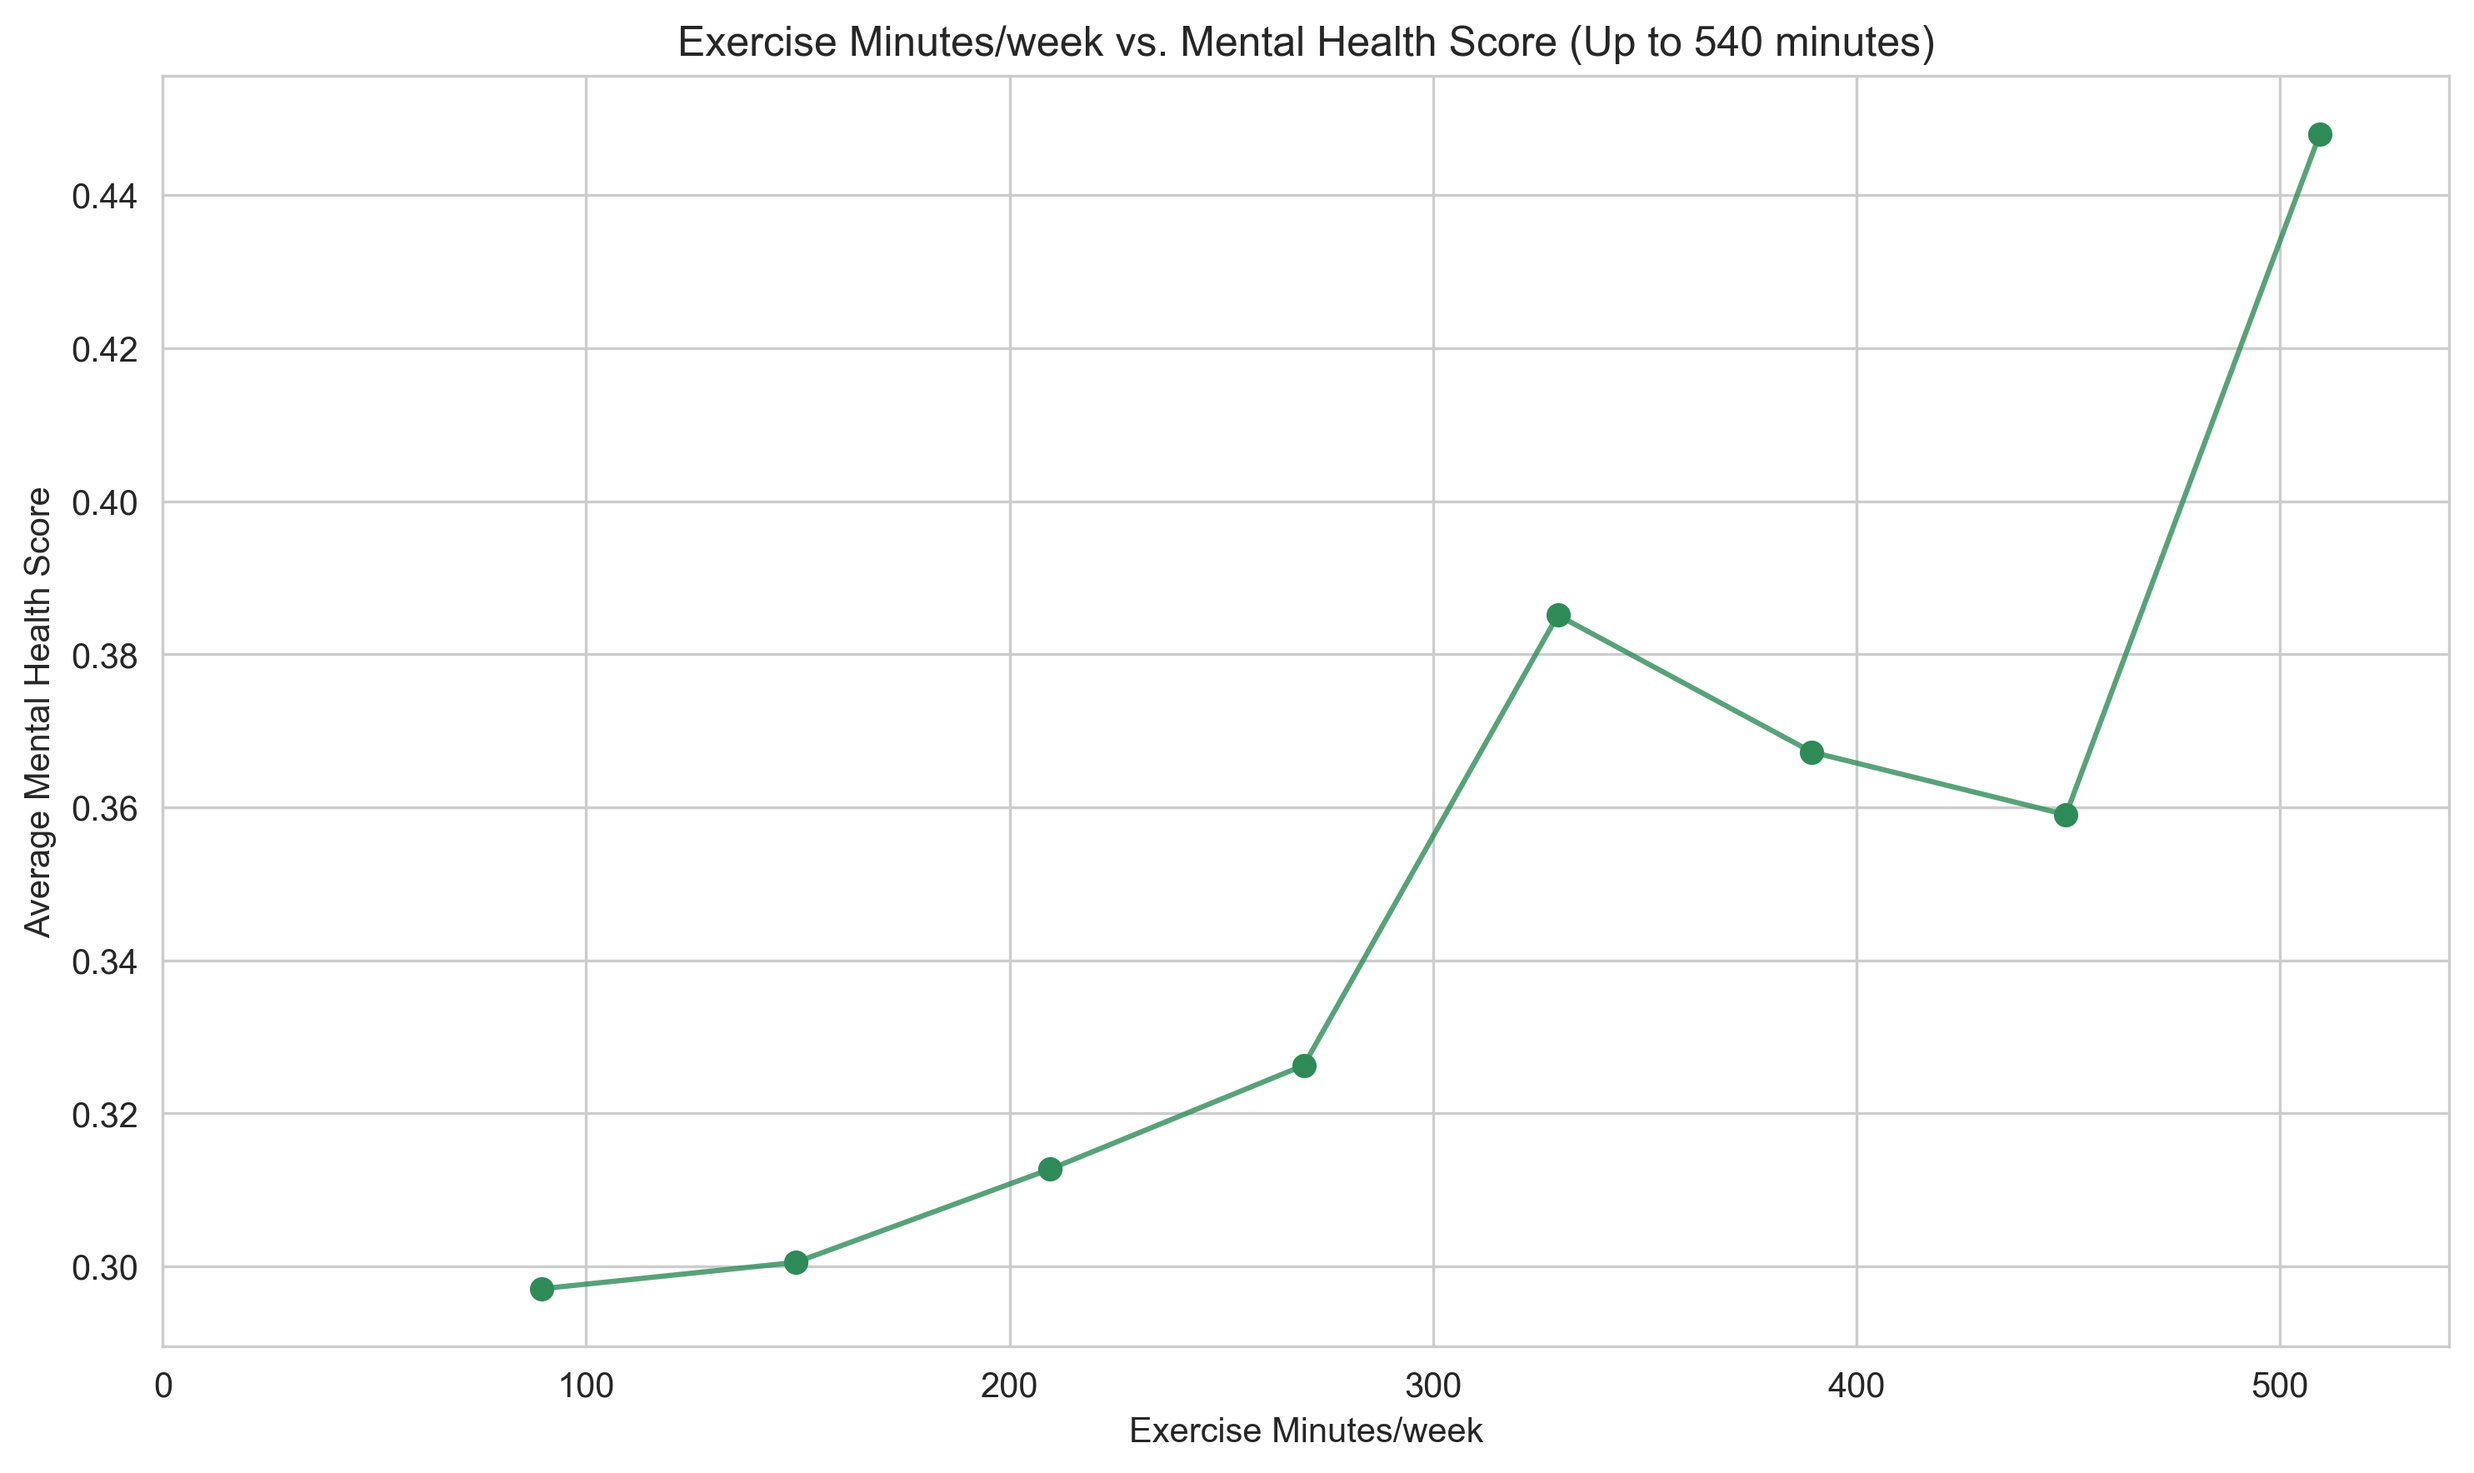
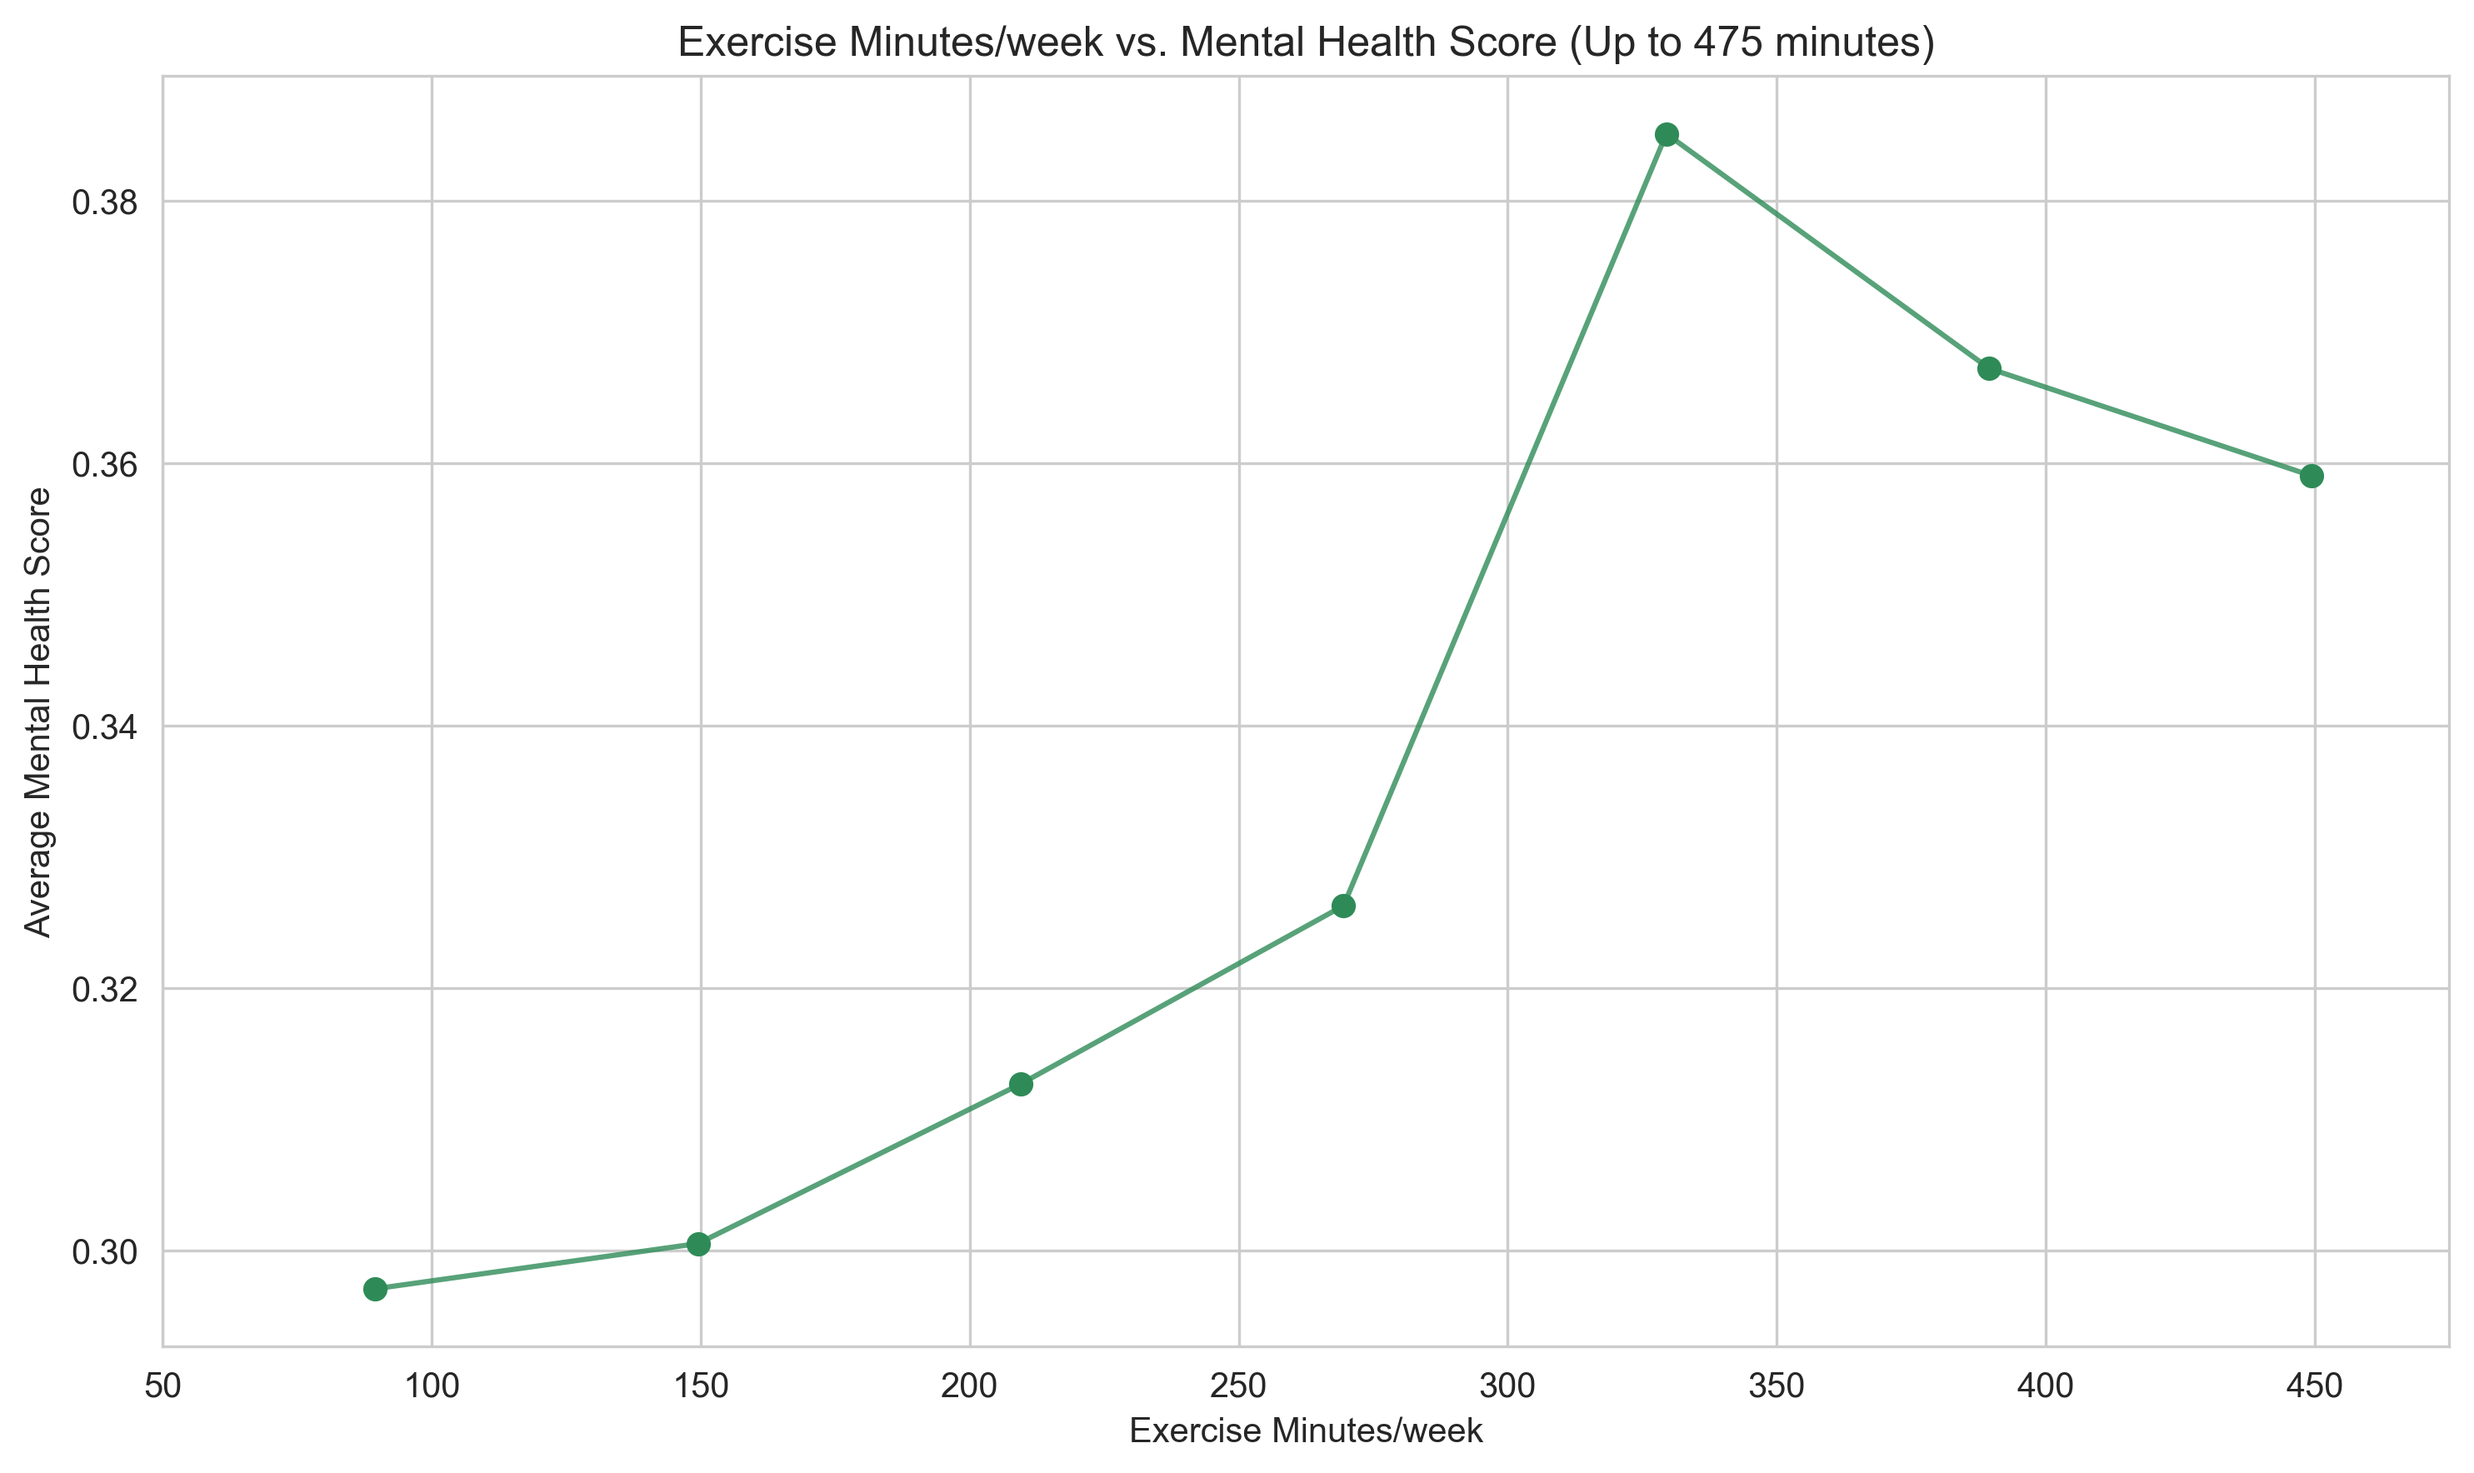
heterogenous effect

diff --git a/04_causal_model_fitting.py b/04_causal_model_fitting.py
@@ -189,10 +189,18 @@ class CausalEffectAnalyzer:
         categorical_vars = ['SEXVAR', 'MARITAL', 'EDUCA', 'RENTHOM1', 'VETERAN3',
                            'EMPLOY1', 'CHILDREN', 'INCOME3', 'PREGNANT',
                            'METRO_AREA', 'URBAN_RURAL_AREA', 'ADDEPEV3']
+        
+        self.code_mappings = {}
 
         for var in categorical_vars:
             if var in self.confounders:
-                self.df_analysis[var] = pd.Categorical(self.df_analysis[var]).codes
+                cat_series = pd.Categorical(self.df_analysis[var])
+                
+                # Replace column with codes
+                self.df_analysis[var] = cat_series.codes
+                
+                # Save mapping dictionary for later reference
+                self.code_mappings[var] = dict(enumerate(cat_series.categories))
 
         # Ensure all confounders are numeric
         for var in self.confounders:
@@ -264,10 +272,6 @@ class CausalEffectAnalyzer:
         print(f"Propensity scores and IPW weights calculated. Dataset size after dropping NaNs: {self.df.shape[0]} rows")
 
         return self
-
-    def linear_regression_analysis(self):
-        """This method is replaced by IPW analysis."""
-        pass
 
     def ipw_dose_response_analysis(self):
         """Analyze dose-response relationship between exercise minutes and mental health using IPW."""
@@ -347,11 +351,15 @@ class CausalEffectAnalyzer:
         """Analyze heterogeneous treatment effects across subgroups using IPW."""
         print("\n=== IPW Heterogeneous Effects Analysis ===")
 
-
-        # Define subgroups
+        # Define subgroups using stored code mappings
         subgroups = {
-            'Gender': self.df_analysis['SEXVAR'].map({0: 'Male', 1: 'Female'}),
-            'Income': pd.cut(self.df_analysis['INCOME3'], bins=3, labels=['Low', 'Middle', 'High']),
+            'Gender': self.df_analysis['SEXVAR'].map(self.code_mappings['SEXVAR']),
+            'Income': self.df_analysis['INCOME3'].map(self.code_mappings['INCOME3']),
+            'Education': self.df_analysis['EDUCA'].map(self.code_mappings['EDUCA']),
+            'Marital Status': self.df_analysis['MARITAL'].map(self.code_mappings['MARITAL']),
+            'Employment Status': self.df_analysis['EMPLOY1'].map(self.code_mappings['EMPLOY1']),
+            'Veteran Status': self.df_analysis['VETERAN3'].map(self.code_mappings['VETERAN3']),
+            'Urban/Rural Area': self.df_analysis['URBAN_RURAL_AREA'].map(self.code_mappings['URBAN_RURAL_AREA']),
             'Mental Health Baseline': pd.cut(
                 self.df_analysis['MENTAL_HEALTH_CONTINUOUS'],
                 bins=3, labels=['Poor', 'Fair', 'Good']

diff --git a/05_visualizations.py b/05_visualizations.py
@@ -89,8 +89,8 @@ def get_bin_midpoint(bin_str):
 
 dose_response['bin_midpoint'] = dose_response['EXERCISE_MINUTES_BINS'].apply(get_bin_midpoint)
 
-# Filter the data - Between 60 minutes and 540 minutes
-dose_response = dose_response[(dose_response['bin_midpoint'] >= 60) & (dose_response['bin_midpoint'] <= 540)]
+# Filter the data - Between 30 minutes and 500 minutes
+dose_response = dose_response[(dose_response['bin_midpoint'] >= 30) & (dose_response['bin_midpoint'] <= 500)]
 
 # Plot mean with confidence intervals
 fig, ax = plt.subplots(figsize=(10, 6))
@@ -101,9 +101,30 @@ ax.errorbar(dose_response['bin_midpoint'], dose_response['mean'],
 ax.plot(dose_response['bin_midpoint'], dose_response['mean'], color='seagreen', linestyle='-', alpha=0.8)
 ax.set_xlabel('Exercise Minutes/week')
 ax.set_ylabel('Average Mental Health Score')
-ax.set_title('Exercise Minutes/week vs. Mental Health Score (Up to 540 minutes)')
-ax.set_xlim([0, 540])
+ax.set_title('Exercise Minutes/week vs. Mental Health Score (Up to 475 minutes)')
+ax.set_xlim([50, 475])
 plt.tight_layout()
 plt.savefig('visualizations/ipw_dose_response.png', dpi=300, bbox_inches='tight')
 plt.show()
 
+# Plot heterogeneity of treatment effect
+het_df = pd.read_csv('data/ipw_heterogeneous_effects_results.csv')
+
+het_df = het_df[het_df['subgroup'] == 'Marital Status']
+
+# Plot
+plt.figure(figsize=(10,6))
+sns.barplot(
+    data=het_df,
+    y="category", x="effect",
+    palette="Set2",
+    dodge=False
+)
+
+plt.axvline(0, color="black", linewidth=1)
+plt.title("Treatment Effect by Marital Status", fontsize=14)
+plt.xlabel("Estimated Effect")
+plt.ylabel("Category")
+plt.tight_layout()
+plt.savefig('visualizations/ipw_heterogeneous_effects.png', dpi=300, bbox_inches='tight')
+plt.show()

diff --git a/README.md b/README.md
@@ -103,6 +103,7 @@ The analysis follows a systematic approach to causal inference:
   - `visualizations/SMD_balance_improvement.png`
   - `visualizations/treatment_effect.png`
   - `visualizations/ipw_dose_response.png`
+  - `visualizations/ipw_heterogeneous_effects.png`
 
 
 - **Key Features**:
@@ -126,6 +127,7 @@ The `visualizations/` directory contains:
 - `visualizations/SMD_balance_improvement.png` - Feature-level SMD improvement from Optimized PSM specifications
 - `visualizations/treatment_effect.png` - Average Treatment Effect
 - `visualizations/ipw_dose_response.png` - IPW Dose-Response Curve
+- `visualizations/ipw_heterogeneous_effects.png` - IPW Heterogeneous Effects
 
 ## Key Variables
 
